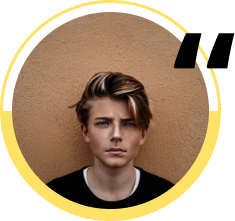
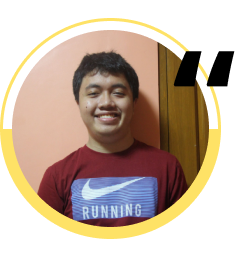
Changed images and fixed Introduction.jsx and Testimonials.jsx

diff --git a/src/components/Testimonials.jsx b/src/components/Testimonials.jsx
@@ -20,9 +20,7 @@
 
 // export default Testimonials;
 
-import imageQuote1 from "../assets/body-img-1.jpg";
 import "./components.css";
-import background from "../assets/background-img-1.png";
 import member1 from "../assets/member-quote-1.png";
 import member2 from "../assets/member-quote-2.png";
 
@@ -30,10 +28,6 @@ function Testimonials() {
   return (
     <>
       <div>
-        <img
-          src={background}
-          className="bg-z-index absolute top-0 left-0 w-screen"
-        ></img>
         <div>
           <div className="grid grid-flow-row auto-rows-max md:auto-rows-min ml-36 mt-36">
             <div className="grid grid-flow-col auto-cols-max">

diff --git a/src/components/Header.jsx b/src/components/Header.jsx
@@ -1,7 +1,6 @@
 import React, { useState, useEffect } from "react";
 import { Link } from "react-router-dom";
 import "./components.css";
-import background from "../assets/background-img-2.png";
 import headerImage from "../assets/header-img.png";
 import homepageBackground from "../assets/homepage-background.png";
 import Button from "./Button";

diff --git a/src/components/Introduction.jsx b/src/components/Introduction.jsx
@@ -1,6 +1,5 @@
-import bodyImage1 from "../assets/body-img-1.jpg";
-import bodyImage2 from "../assets/body-img-2.jpg";
-import background from "../assets/background-img-1.png";
+import bodyImage1 from "../assets/body-img-1.png";
+import bodyImage2 from "../assets/body-img-2.png";
 import "./components.css";
 import Spacer from "./Spacer.jsx";
 
